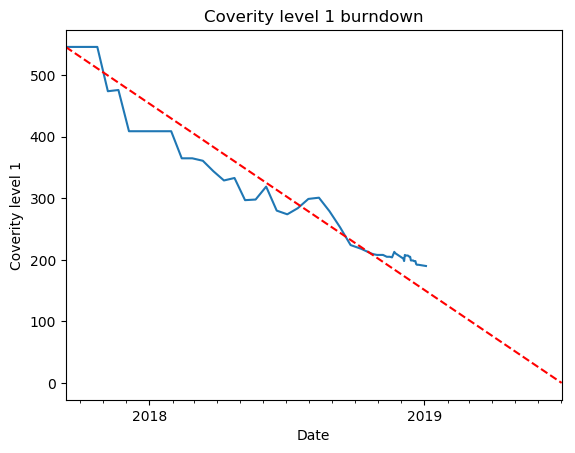
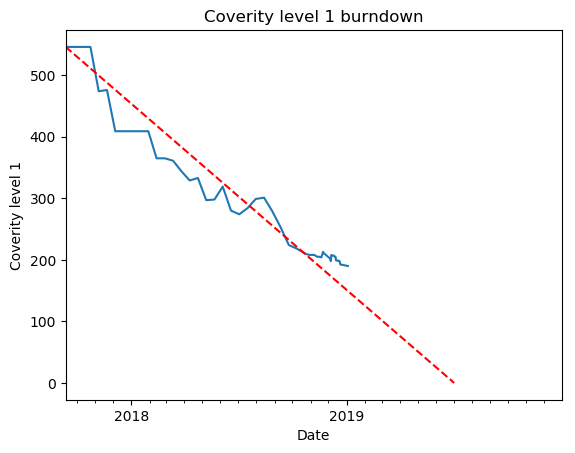
Improved visualization burndown

diff --git a/QualityImprovementMonitor/mainView.py b/QualityImprovementMonitor/mainView.py
@@ -1,6 +1,6 @@
 from tkinter import *
 from tkinter.ttk import *
-from warningSettingsHistory import *
+from qualityMetricsHistory import *
 from unitCollection import *
 from unit import *
 from datetime import datetime
@@ -19,7 +19,11 @@ class MainView:
 
         # data
         self.unit_collection = UnitCollection()
-        self.warning_settings_history = WarningSettingsHistory(self.unit_collection)
+        self.qualityMetricsHistory = QualityMetricsHistory(self.unit_collection)
+
+        # define begin date range
+        self.chart_begin_date = '12-Sep-2017'
+        self.chart_end_date = '31-Dec-2019'
 
         # define fonts
         self.large_font_bold = "Verdana 30 bold"
@@ -39,7 +43,7 @@ class MainView:
         self.title_style.configure("Title.TLabel", foreground="black", background="white", font=self.large_font_bold)
 
         self.image_style = Style()
-        self.image_style.configure("Image.TLabel", borderwidth=0, highlightthickness=0)
+        self.image_style.configure("Image.TLabel", background="white")
 
         self.table_row_header_style = Style()
         self.table_row_header_style.configure("TableRowHeader.TLabel", foreground="black", background="white", font=self.small_font, width=25, anchor=W, border=1)
@@ -178,91 +182,84 @@ class MainView:
         self.root.mainloop()
 
     def _update_history_file(self):
-        self.warning_settings_history.update()
+        self.qualityMetricsHistory.update()
         return
 
     def _update_user_interface(self):
         print("begin update ui")
-        date_format = "%d-%b-%Y"
-        day1 = datetime.strptime('12-Sep-2017', date_format)
-        day2 = datetime.strptime('02-Jul-2019', date_format)
 
-        worksheet_name = self.warning_settings_history.worksheet_names[4]
-        self._generate_burn_down_chart(worksheet_name, day1, day2, 6600, 0, 0, 8000, 500, self.filename_warning_burndown_graph)
-        self.image_warning_burndown_graph.configure(file=self.filename_warning_burndown_graph)
-
-        worksheet_name = self.warning_settings_history.worksheet_names[5]
-        self._generate_burn_down_chart(worksheet_name, day1, day2, 546, 0, 0, 600, 100, self.filename_coverity_burndown_graph)
-        self.image_coverity_burndown_graph.configure(file=self.filename_coverity_burndown_graph)
-
-        worksheet_name = self.warning_settings_history.worksheet_names[7]
-        self._generate_burn_down_chart(worksheet_name, day1, day2, 2260, 0, 0, 2500, 500, self.filename_security_burndown_graph)
-        self.image_security_burndown_graph.configure(file=self.filename_security_burndown_graph)
-
-        for index in range(len(self.unit_collection.units) + 1):
-            value = self.warning_settings_history.get_values_wrong_warning_level()[index]
-            delta = self.warning_settings_history.get_deltas_wrong_warning_level()[index]
-            self._update_table_label(self.labels_wrong_warning_level_data[index], value, delta)
-
-            value = self.warning_settings_history.get_values_treat_warnings_not_as_errors()[index]
-            delta = self.warning_settings_history.get_deltas_treat_warnings_not_as_errors()[index]
-            self._update_table_label(self.labels_treat_warnings_not_as_errors_data[index], value, delta)
-
-            value = self.warning_settings_history.get_values_suppressed_warnings()[index]
-            delta = self.warning_settings_history.get_deltas_suppressed_warnings()[index]
-            self._update_table_label(self.labels_suppressed_warnings_data[index], value, delta)
-
-            value = self.warning_settings_history.get_values_actual_warnings()[index]
-            delta = self.warning_settings_history.get_deltas_actual_warnings()[index]
-            self._update_table_label(self.labels_actual_warnings_data[index], value, delta)
-
-            value = self.warning_settings_history.get_values_coverity_level_1()[index]
-            delta = self.warning_settings_history.get_deltas_coverity_level_1()[index]
-            self._update_table_label(self.labels_coverity_level_1_data[index], value, delta)
-
-            value = self.warning_settings_history.get_values_coverity_level_2()[index]
-            delta = self.warning_settings_history.get_deltas_coverity_level_2()[index]
-            self._update_table_label(self.labels_coverity_level_2_data[index], value, delta)
-
-            value = self.warning_settings_history.get_values_security_level_1()[index]
-            delta = self.warning_settings_history.get_deltas_security_level_1()[index]
-            self._update_table_label(self.labels_security_level_1_data[index], value, delta)
-
-            value = self.warning_settings_history.get_values_security_level_2()[index]
-            delta = self.warning_settings_history.get_deltas_security_level_2()[index]
-            self._update_table_label(self.labels_security_level_2_data[index], value, delta)
+        self._update_warnings_burn_down_chart()
+        self._update_coverity_burn_down_chart()
+        self._update_security_burn_down_chart()
+        self._update_table_values()
 
         print("end update ui")
 
         return
 
-    def _update_table_label(self, label, value, delta):
-        style = "TableCellValueUnchanged.TLabel"
-        if delta < 0:
-            style = "TableCellValueDown.TLabel"
-        if delta > 0:
-            style = "TableCellValueUp.TLabel"
-        label.configure(style=style)
-        label.configure(text=str(value))
-        if delta != 0:
-            label.configure(text=str(delta))
+    def _update_warnings_burn_down_chart(self):
+        min_value = 0
+        max_value = 8000
+        step = 500
+        burn_down_show = False
+        burn_down_begin_date = '1-Jan-2019'
+        burn_down_begin_value = 6600
+        burn_down_end_date = '31-Dec-2019'
+        burn_down_end_value = 0
 
-    def _generate_burn_down_chart(self, worksheet_name, begin_date, end_date, burn_down_begin_y, burn_down_end_y, min_y, max_y, step_y, graph_filename):
+        worksheet_name = self.qualityMetricsHistory.worksheet_names[4]
+        self._generate_burn_down_chart(worksheet_name, min_value, max_value, step, burn_down_show, burn_down_begin_date, burn_down_begin_value, burn_down_end_date, burn_down_end_value, self.filename_warning_burndown_graph)
+        self.image_warning_burndown_graph.configure(file=self.filename_warning_burndown_graph)
+
+    def _update_coverity_burn_down_chart(self):
+        min_value = 0
+        max_value = 600
+        step = 100
+        burn_down_show = True
+        burn_down_begin_date = '12-Sep-2017'
+        burn_down_begin_value = 546
+        burn_down_end_date = '02-Jul-2019'
+        burn_down_end_value = 0
+
+        worksheet_name = self.qualityMetricsHistory.worksheet_names[5]
+        self._generate_burn_down_chart(worksheet_name, min_value, max_value, step, burn_down_show, burn_down_begin_date, burn_down_begin_value, burn_down_end_date, burn_down_end_value, self.filename_coverity_burndown_graph)
+        self.image_coverity_burndown_graph.configure(file=self.filename_coverity_burndown_graph)
+
+    def _update_security_burn_down_chart(self):
+        min_value = 0
+        max_value = 1500
+        step = 500
+        burn_down_show = False
+        burn_down_begin_date = '1-Jan-2019'
+        burn_down_begin_value = 1100
+        burn_down_end_date = '31-Dec-2019'
+        burn_down_end_value = 0
+
+        worksheet_name = self.qualityMetricsHistory.worksheet_names[7]
+        self._generate_burn_down_chart(worksheet_name, min_value, max_value, step, burn_down_show, burn_down_begin_date, burn_down_begin_value, burn_down_end_date, burn_down_end_value, self.filename_security_burndown_graph)
+        self.image_security_burndown_graph.configure(file=self.filename_security_burndown_graph)
+
+    def _generate_burn_down_chart(self, worksheet_name, min_y, max_y, step_y, burn_down_show, burn_down_begin_date, burn_down_begin_value, burn_down_end_date, burn_down_end_value, graph_filename):
+        date_format = "%d-%b-%Y"
+
         plt.clf()
 
-        # set date range
-        plt.xlim(begin_date, end_date)
+        # set range
+        min_x = datetime.strptime(self.chart_begin_date, date_format)
+        max_x = datetime.strptime(self.chart_end_date, date_format)
+        plt.xlim(min_x, max_x)
 
         # read excel and plot data
-        data_frame = panda.ExcelFile(self.warning_settings_history.filename).parse(worksheet_name)
-        df = panda.DataFrame(
-            {'x': data_frame['Date'],
-             'Total': data_frame['Total']})
+        data_frame = panda.ExcelFile(self.qualityMetricsHistory.filename).parse(worksheet_name)
+        df = panda.DataFrame({'x': data_frame['Date'], 'Total': data_frame['Total']})
         for column in df.drop('x', axis=1):
             plt.plot(df['x'], df[column], label=column)
 
-        # plot burndown
-        plt.plot([begin_date, end_date], [burn_down_begin_y, burn_down_end_y], '--r', label="Burndown")
+        # plot burn down
+        if burn_down_show:
+            burn_down_begin_x = datetime.strptime(burn_down_begin_date, date_format)
+            burn_down_end_x = datetime.strptime(burn_down_end_date, date_format)
+            plt.plot([burn_down_begin_x, burn_down_end_x], [burn_down_begin_value, burn_down_end_value], '--r', label="Burndown")
 
         # plot labels
         plt.xlabel('Date')
@@ -278,17 +275,53 @@ class MainView:
         plt.gca().xaxis.set_minor_locator(months)
         plt.yticks(np.arange(min_y, max_y, step=step_y))
 
-        # plot legend
-        #plt.legend(bbox_to_anchor=(1.05, 1), loc=2, borderaxespad=None)
-
-        # plot grid
-        # plt.grid(True)
-        # plt.grid(linewidth='0.5', color='black')
-        # plt.tight_layout()
-
         # save image
         plt.savefig(graph_filename, bbox_inches='tight', dpi=100)
 
+    def _update_table_values(self):
+        for index in range(len(self.unit_collection.units) + 1):
+            value = self.qualityMetricsHistory.get_values_wrong_warning_level()[index]
+            delta = self.qualityMetricsHistory.get_deltas_wrong_warning_level()[index]
+            self._update_table_label(self.labels_wrong_warning_level_data[index], value, delta)
+
+            value = self.qualityMetricsHistory.get_values_treat_warnings_not_as_errors()[index]
+            delta = self.qualityMetricsHistory.get_deltas_treat_warnings_not_as_errors()[index]
+            self._update_table_label(self.labels_treat_warnings_not_as_errors_data[index], value, delta)
+
+            value = self.qualityMetricsHistory.get_values_suppressed_warnings()[index]
+            delta = self.qualityMetricsHistory.get_deltas_suppressed_warnings()[index]
+            self._update_table_label(self.labels_suppressed_warnings_data[index], value, delta)
+
+            value = self.qualityMetricsHistory.get_values_actual_warnings()[index]
+            delta = self.qualityMetricsHistory.get_deltas_actual_warnings()[index]
+            self._update_table_label(self.labels_actual_warnings_data[index], value, delta)
+
+            value = self.qualityMetricsHistory.get_values_coverity_level_1()[index]
+            delta = self.qualityMetricsHistory.get_deltas_coverity_level_1()[index]
+            self._update_table_label(self.labels_coverity_level_1_data[index], value, delta)
+
+            value = self.qualityMetricsHistory.get_values_coverity_level_2()[index]
+            delta = self.qualityMetricsHistory.get_deltas_coverity_level_2()[index]
+            self._update_table_label(self.labels_coverity_level_2_data[index], value, delta)
+
+            value = self.qualityMetricsHistory.get_values_security_level_1()[index]
+            delta = self.qualityMetricsHistory.get_deltas_security_level_1()[index]
+            self._update_table_label(self.labels_security_level_1_data[index], value, delta)
+
+            value = self.qualityMetricsHistory.get_values_security_level_2()[index]
+            delta = self.qualityMetricsHistory.get_deltas_security_level_2()[index]
+            self._update_table_label(self.labels_security_level_2_data[index], value, delta)
+
+    def _update_table_label(self, label, value, delta):
+        style = "TableCellValueUnchanged.TLabel"
+        if delta < 0:
+            style = "TableCellValueDown.TLabel"
+        if delta > 0:
+            style = "TableCellValueUp.TLabel"
+        label.configure(style=style)
+        label.configure(text=str(value))
+        if delta != 0:
+            label.configure(text=str(delta) + "(" + str(value) + ")")
 
     def _update(self):
         now = time.strftime("(snapshot %A %B %d %H:%M:%S)")

diff --git a/QualityImprovementMonitor/unit.py b/QualityImprovementMonitor/unit.py
@@ -6,7 +6,7 @@ import time
 import datetime
 from time import strftime
 from warningSettingsReport import *
-from buildWarningsReport import *
+from buildWarningMetricsReport import *
 from ticsMetricsReport import *
 
 BUILD_BASE_PATH = r'\\code1.emi.philips.com\storage\IGTS_WIP_Storage\CIBuilds'
@@ -51,7 +51,7 @@ class Unit:
 
     def _get_latest_build_actual_warnings_report(self):
         filename = self.last_successful_build_path + r'\Logging\GENERATE\Reports\VisualStudioBuildTotals.xml'
-        return BuildWarningsReport(filename)
+        return BuildWarningMetricsReport(filename)
 
     def update_path_last_successful_build(self):
         build_directory_root = self._get_build_directory_root()

diff --git a/QualityImprovementMonitor/qualityMetricsHistory.py b/QualityImprovementMonitor/qualityMetricsHistory.py
@@ -6,12 +6,11 @@ from openpyxl import *
 from datetime import *
 
 
-class WarningSettingsHistory:
+class QualityMetricsHistory:
 
     def __init__(self, unit_collection):
         self.unit_collection = unit_collection
-        self.filename = r'd:/compiler_warning_settings_analyzer_history.xlsx'
-
+        self.filename = r'QualityMetricsHistory.xlsx'
         self.worksheet_names = ["Wrong warning level", "Treat warning not as error", "Suppressed warnings", "Actual warnings", "Total warnings", "Coverity level 1", "Coverity level 2", "Security level 1", "Security level 2"]
 
         if not os.path.isfile(self.filename):

diff --git a/QualityImprovementMonitor/buildWarningMetricsReport.py b/QualityImprovementMonitor/buildWarningMetricsReport.py
@@ -4,7 +4,7 @@ import os
 import xml.etree.ElementTree as ET
 
 
-class BuildWarningsReport:
+class BuildWarningMetricsReport:
 
     def __init__(self, filename):
         self.warning_count = 0
